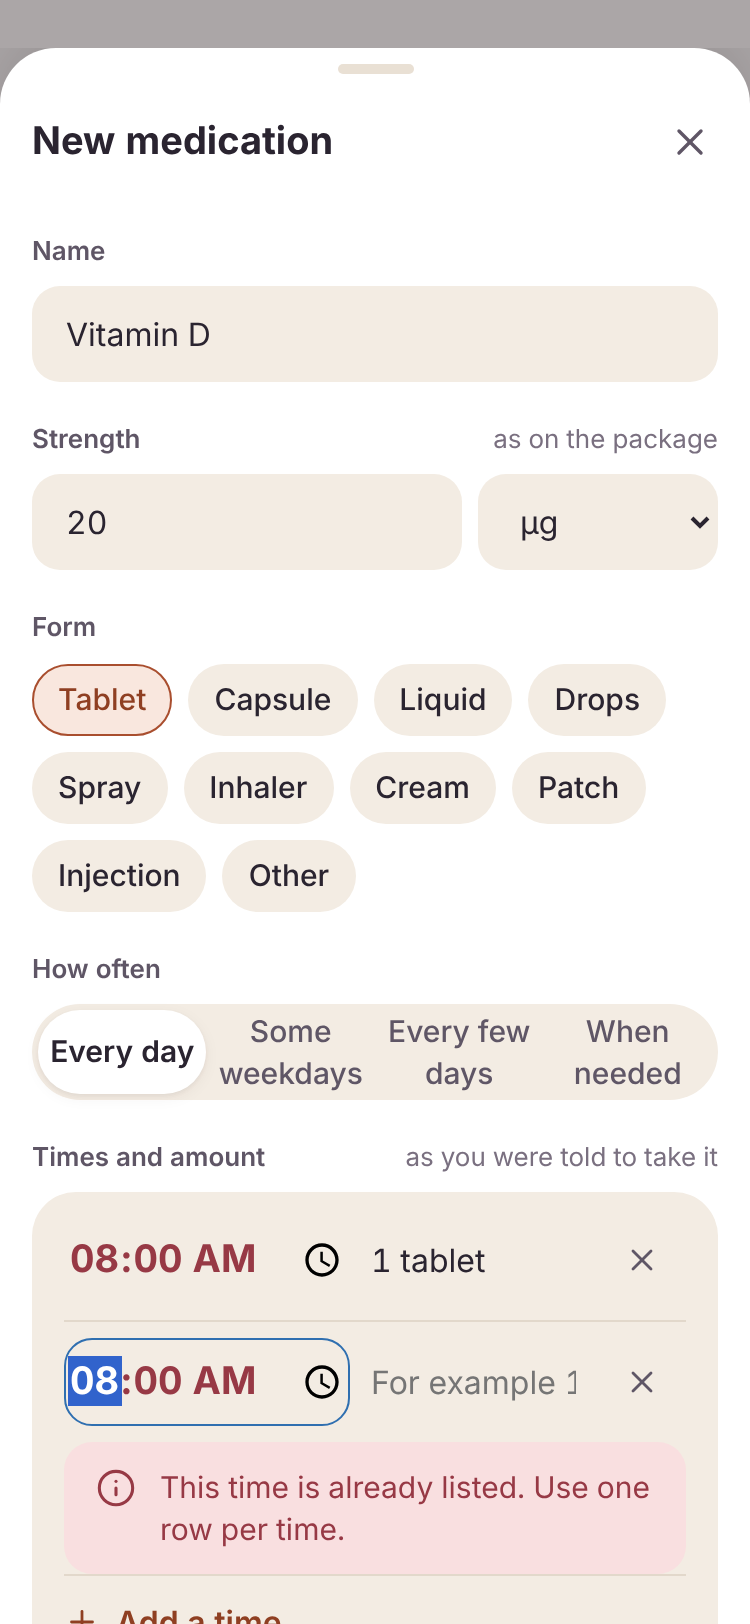
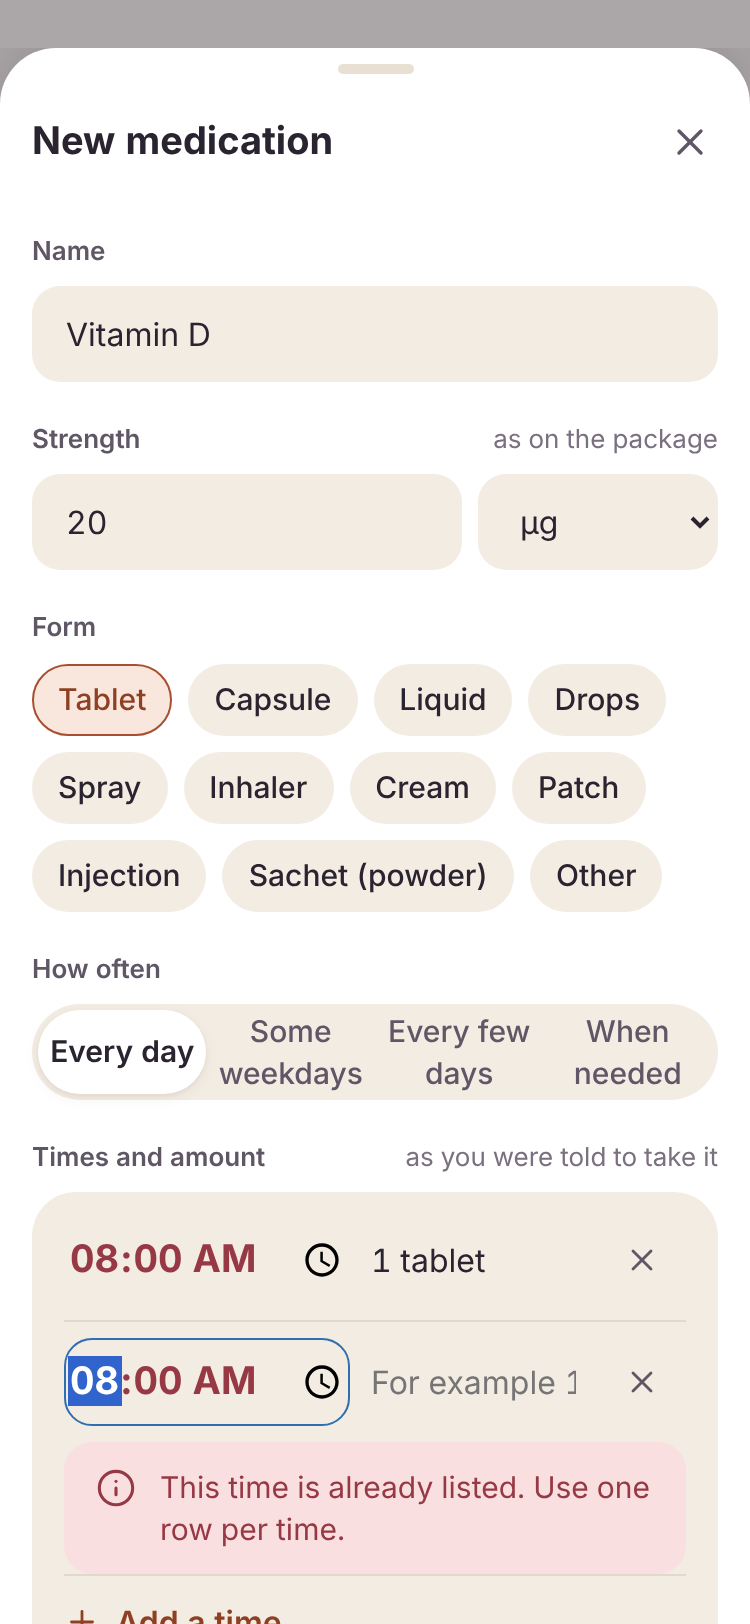
feat(meds): sachet (powder) as a medication form (#28)
Owner feedback: powder in sachets had no form. Older app versions skip a
record with an unknown form instead of failing. Also fixes the medication
screenshot script, which clicked a name that the Today card now shows too.

Claude-Session: https://claude.ai/code/session_015EpHo7hdUUAynZ4EgkPvUq

Changed region(s): [[0.3373, 0.4926, 0.8893, 0.585]]

diff --git a/tests/e2e/screenshots.spec.ts b/tests/e2e/screenshots.spec.ts
@@ -306,9 +306,10 @@ for (const scheme of ['light', 'dark'] as const) {
 			await save();
 
 			await add('Magnesium');
+			await sheet.getByRole('button', { name: 'Sachet (powder)', exact: true }).click();
 			await sheet.getByRole('radio', { name: 'Every few days' }).click();
 			await sheet.getByRole('button', { name: 'One day more' }).click();
-			await sheet.getByLabel('Amount 1', { exact: true }).fill('2 tablets');
+			await sheet.getByLabel('Amount 1', { exact: true }).fill('1 sachet');
 			await save();
 
 			await add('Throat spray');
@@ -318,7 +319,8 @@ for (const scheme of ['light', 'dark'] as const) {
 
 			await add('Old antihistamine');
 			await save();
-			await page.getByText('Old antihistamine').click();
+			// The list row, not the same name in the Today card above it.
+			await page.getByRole('list', { name: 'Medication' }).getByText('Old antihistamine').click();
 			await page.waitForTimeout(400);
 			await sheet.getByRole('button', { name: 'Archive', exact: true }).click();
 			await page.getByRole('status').getByText('Medication archived').waitFor();

diff --git a/src/lib/meds/medication.test.ts b/src/lib/meds/medication.test.ts
@@ -23,7 +23,8 @@ describe('medication validator', () => {
 			valid,
 			merge({ schedule: { kind: 'weekdays', days: [1, 3, 5] } }),
 			merge({ schedule: { kind: 'every_n_days', n: 3, from: '2026-10-01' }, end: '2026-12-31', note: 'x' }),
-			merge({ schedule: { kind: 'as_needed' }, times: [], strength: undefined, unit: undefined })
+			merge({ schedule: { kind: 'as_needed' }, times: [], strength: undefined, unit: undefined }),
+			merge({ form: 'sachet' })
 		];
 		for (const p of ok) expect(parsePayload(p), JSON.stringify(p)).not.toBeNull();
 	});

diff --git a/src/lib/i18n/da.ts b/src/lib/i18n/da.ts
@@ -48,6 +48,7 @@ export const da: Record<MessageKey, string> = {
 	'meds.form.cream': 'Creme',
 	'meds.form.patch': 'Plaster',
 	'meds.form.injection': 'Injektion',
+	'meds.form.sachet': 'Brev (pulver)',
 	'meds.form.other': 'Andet',
 	'meds.sheet.new': 'Ny medicin',
 	'meds.sheet.edit': 'Medicin',

diff --git a/src/lib/i18n/en.ts b/src/lib/i18n/en.ts
@@ -45,6 +45,7 @@ export const en = {
 	'meds.form.cream': 'Cream',
 	'meds.form.patch': 'Patch',
 	'meds.form.injection': 'Injection',
+	'meds.form.sachet': 'Sachet (powder)',
 	'meds.form.other': 'Other',
 	'meds.sheet.new': 'New medication',
 	'meds.sheet.edit': 'Medication',

diff --git a/src/lib/records/types.ts b/src/lib/records/types.ts
@@ -117,6 +117,7 @@ export const MED_FORMS = [
 	'cream',
 	'patch',
 	'injection',
+	'sachet',
 	'other'
 ] as const;
 /** Suggested units; `unit` itself is free text (up to 40 characters), so "other" is simply what the person typed. */
